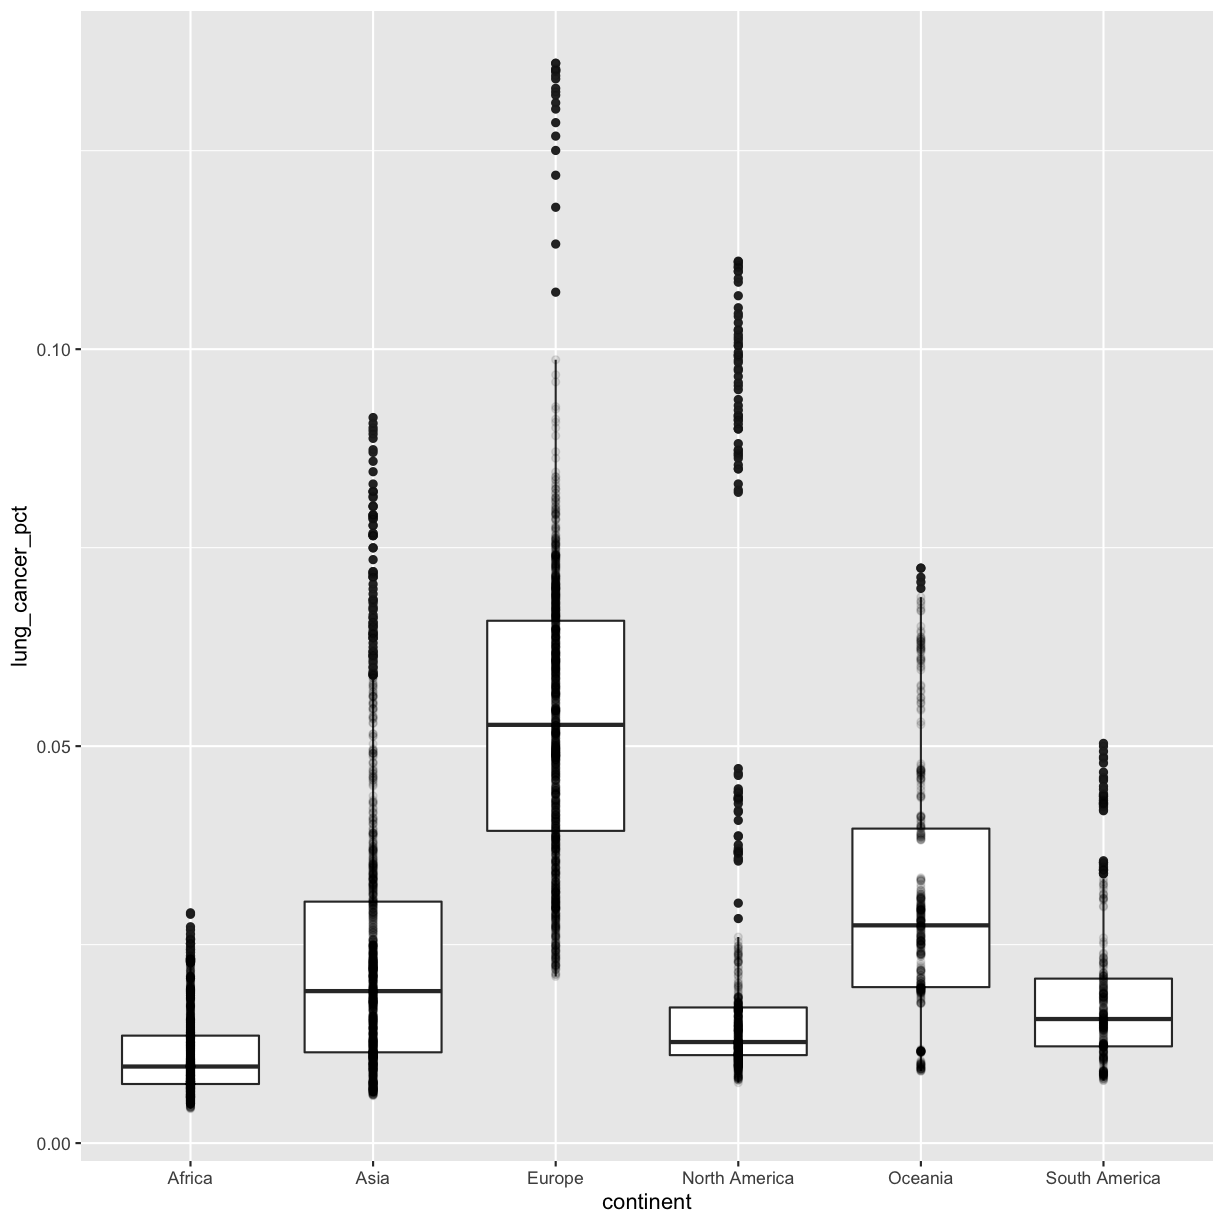
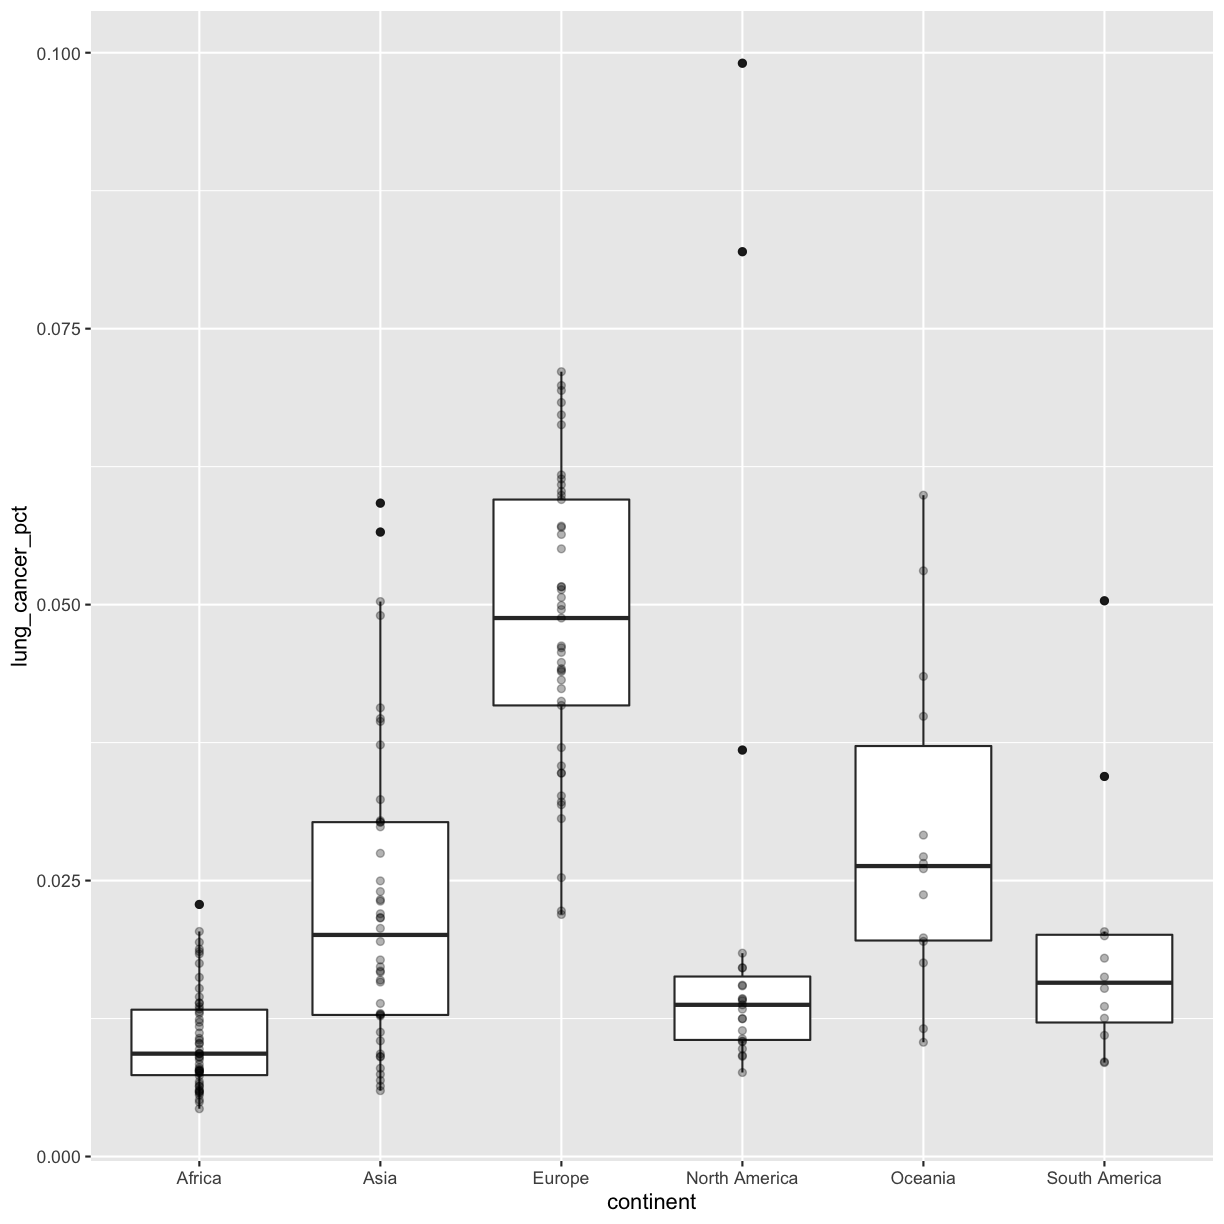
Fix minor bugs

diff --git a/_episodes/02-r-plotting.md b/_episodes/02-r-plotting.md
@@ -126,7 +126,7 @@ library(tidyverse)
 >
 {: .callout}
 
-Okay, now let's read in our data, smoking_cancer_1990.csv, which is in the data folder in our project directory. 
+Okay, now let's read in our data, "smoking_cancer_1990.csv", which is in the data folder in our project directory. 
 We're going to use the `read_csv()` function that we loaded in with the tidyverse, 
 and save it to `smoking_1990`, which will act as a placeholder for our data.
 This function takes a file path and returns a tibble, which is basically a table (that we sometimes call a data frame...).
@@ -352,7 +352,7 @@ ggplot(data = smoking_1990) +
 <img src="../fig/rmd-02-FirstPlotAddPoints-1.png" title="plot of chunk FirstPlotAddPoints" alt="plot of chunk FirstPlotAddPoints" width="612" style="display: block; margin: auto;" />
 
 Now we're really getting somewhere. It finally looks like a proper plot!  We can
-now see a trend in the data. It looks like countries with greater smoking rates tend to have higher lung cancer rates. Let's add a title to our plot to make that
+now see a trend in the data. It looks like countries with greater smoking rates tend to have higher lung cancer rates, though it's important to remember that we can't infer causality from this plot alone. Let's add a title to our plot to make that
 clearer. Again, we will use the `labs()` function, but this time we will use the
 `title =` argument.
 
@@ -394,7 +394,7 @@ ggplot(data = smoking_1990) +
 
 <img src="../fig/rmd-02-FirstPlotAddColor-1.png" title="plot of chunk FirstPlotAddColor" alt="plot of chunk FirstPlotAddColor" width="612" style="display: block; margin: auto;" />
 
-Here we can see that in 1990 the African countries tended to have much smoking and lung cancer rates than many other continents. Notice that when we add a mapping for
+Here we can see that in 1990 the African countries tended to have much lower smoking and lung cancer rates than many other continents. Notice that when we add a mapping for
 color, ggplot automatically provided a legend for us. It took care of assigning
 different colors to each of our unique values of the `continent` variable. (Note
 that when we mapped the x and y values, those drew the actual axis labels, so in
@@ -449,8 +449,6 @@ website](https://colorbrewer2.org/) for more info about choosing plot colors.
 > > 
 > > 
 > > ~~~
-> > #install.packages("ggsci")
-> > library(ggsci)
 > > ggplot(data = smoking_1990) +
 > >   aes(x = smoke_pct) +
 > >   labs(x = "Percent of people who smoke") +
@@ -459,7 +457,7 @@ website](https://colorbrewer2.org/) for more info about choosing plot colors.
 > >   geom_point() +
 > >   labs(title = "Are lung cancer rates associated with smoking rates?") +
 > >   aes(color = continent) +
-> >   scale_color_locuszoom()
+> >   scale_color_viridis_d(option = "turbo")
 > > ~~~
 > > {: .language-r}
 > > 
@@ -469,8 +467,8 @@ website](https://colorbrewer2.org/) for more info about choosing plot colors.
 {: .challenge}
 
 Since we have the data for the population of each country, we might be curious
-what effect population might have on smoking rates and lung cancer rates. Do you
-think larger countries will have a greater or lower lung cancer rates? Let's find
+about the relationship between population, smoking rates, and lung cancer rates. Do you
+think larger countries will have a greater or lower lung cancer rate? Let's find
 out by mapping the population of each country to the size of our points.
 
 > ## Changing point sizes
@@ -499,7 +497,7 @@ out by mapping the population of each country to the size of our points.
 > {: .solution}
 {: .challenge}
 
-There doesn't seem to be a very strong association with population size. We got another legend here for size,
+There doesn't seem to be a very strong association with population size. We also got another legend here for size,
 which is nice, but the values look a bit ugly in scientific notation. Let's
 divide all the values by 1,000,000 and label our legend "Population (in
 millions)"
@@ -629,8 +627,8 @@ ggsave(filename = "figures/cancer_v_smoke.png", plot = cancer_v_smoke, width=6, 
 {: .language-r}
 
 
-> ## Understanding common errors
-> Sometimes you accidentally type things wrong and get errors. We call these mis-types "bugs".
+> ## Understanding common bugs
+> Sometimes you accidentally type things wrong and get unexpected results or errors. We call these mis-types "bugs".
 > Let's go through some common ones. The most important things to remember are:
 > 1. The order of parentheses, quotes, commas, and plusses matters.
 > 1. Sometimes you accidentally forget a plus where you need one or include one where you don't.
@@ -663,13 +661,27 @@ ggsave(filename = "figures/cancer_v_smoke.png", plot = cancer_v_smoke, width=6, 
 >  geom_point() +
 >  scale_color_brewer(palette = "Set2") +
 >  labs(x = "Percent of people who smoke", y = "Percent of people with lung cancer", title = "Are lung cancer rates associated with smoking rates?", size = "Population (in millions)")
+> 
+> # Bug 4
+> ggplot(data = smoking_1990) +
+>  aes(x = smoke_pct, y = lung_cancer_pct color, = continent, size = pop/1000000) +
+>  geom_point() +
+>  scale_color_brewer(palette = "Set2") +
+>  labs(x = "Percent of people who smoke", y = "Percent of people with lung cancer", title = "Are lung cancer rates associated with smoking rates?" size = "Population (in millions)")
+> 
+> # Bug 5
+> ggplot(data = smoking_1990) +
+>  aes(x = smoke_pct, y = lung_cancer_pct color, = continent, size = pop/1000000) +
+>  geom_point() +
+>  scale_color_brewer(palette = "Set2") +
+>  labs(x = "Percent of people who smoke", y = "Percent of people with lung cancer", title = "Are lung cancer rates associated with smoking rates?", size = "Population (in millions)") +
 > ~~~
 > {: .language-r}
 > {: .source}
 > > ## Solution
-> > Bug 1: We generated a plot, but it doesn't look like what we expect. The bug is in our mapping of aesthetics: `aes(x = "smoke_pct", y = lung_cancer_pct, color = continent, size = pop/1000000)`. Because `"smoke_pct"` is in quotation marks, ggplot understands that as a single value, rather than an aesthetic mapped to the `smoke_pct` variable in the `smoking_1990` dataset. To correct this bug, remove the from `"smoke_pct"`.
+> > **Bug 1**: We generated a plot, but it doesn't look like what we expect. The bug is in our mapping of aesthetics: `aes(x = "smoke_pct", y = lung_cancer_pct, color = continent, size = pop/1000000)`. Because `"smoke_pct"` is in quotation marks, ggplot understands that as a single value, rather than an aesthetic mapped to the `smoke_pct` variable in the `smoking_1990` dataset. To correct this bug, remove the from `"smoke_pct"`.
 > >
-> > Bug 2: This code generates the following error: 
+> > **Bug 2**: This code generates the following error: 
 > > ```
 > > Error: unexpected ')' in:
 > > "      scale_color_brewer(palette = "Set2") +
@@ -678,12 +690,25 @@ ggsave(filename = "figures/cancer_v_smoke.png", plot = cancer_v_smoke, width=6, 
 > >
 > > Although it might be alarming to get this error, it's actually quite helpful! You can see that the error points out that we have an unexpected closed parentheses ")" in the last two lines of our code. Look closely, and you'll see that we accidentally put an extra ")" on the `labs()` layer in the last line of code.
 > >
-> > Bug 3: This code generates the following error:
+> > **Bug 3**: This code generates the following error:
 > > ```
 > > Error: geom_point requires the following missing aesthetics: y
 > > ```
 > >
 > > This error tells us that we are missing a y aesthetic, which is required for `geom_point()`. Oops! Make sure to add `y = lung_cancer_pct` back in!
+> >
+> > **Bug 4**: This code generates the following error:
+> > ```
+> > Error: unexpected symbol in:
+> > "      scale_color_brewer(palette = "Set2") +
+> >       labs(x = "Percent of people who smoke", y = "Percent of people with lung cancer", title = "Are lung cancer rates associated with smoking rates?" size"
+> > ```
+> > 
+> > This error message tells us that there was something unexpected in either the `scale_color_brewer()` function or the `labs()` funtion. These errors can be some of the hardest to figure out, because the message is not very specific. However, if you look closely, yu will see that we are missing a comma between `title = "Are lung cancer rates associated with smoking rates?"` and `size = "Population (in millions)"` inside the label function.
+> >
+> > **Bug 5**: When you run this code, it seems like nothing happens. Look at the symbol on the last line in your console. Instead of the `>` symbol we expect, you can see that there is a `+`. This means that R is expecting something else. But why?
+> > 
+> > Check the last line of your ggplot code. Oops! We left a `+` symbol at the very end. Before you can run anything else, you'll need to tell R that you don't actually have anything to add to the previous code. To do this, click on the last line in the console and then hit "Esc" on your keyboard. Now you are ready to run the correct code.
 > >
 > > In the code chunck below, you can see the code that results in an error-free plot.
 > >
@@ -774,9 +799,9 @@ Notice that this dataset has an additional column `year` compared to the smaller
 >  geom_point()
 > ~~~
 > {: .language-r}
-> 
-> <img src="../fig/rmd-02-PlotFullsmoking-1.png" title="plot of chunk PlotFullsmoking" alt="plot of chunk PlotFullsmoking" width="612" style="display: block; margin: auto;" />
->
+> > ## Solution
+> > <img src="../fig/rmd-02-PlotFullsmokingEval-1.png" title="plot of chunk PlotFullsmokingEval" alt="plot of chunk PlotFullsmokingEval" width="612" style="display: block; margin: auto;" />
+> {: .solution}
 {: .challenge}
 
 Hmm, the plot we created in the last exercise isn't very clear. We can see some patterns that may be attributable to countries with higher lung cancer rates, but it's tough to tell what's going on, since many of the points are overlapping. Since the dataset is more complex, the plotting options we used for the smaller dataset aren't as useful for interpreting these data. Luckily, we can add additional attributes to our plots that will make patterns more apparent. For example, we can generate a different type of plot - perhaps a line plot with one line per country, colored by continent - and assign attributes for variables where we might expect to see patterns.
@@ -816,7 +841,7 @@ Hmm. This doesn't look right. By setting the color value to `continent`, we got 
 Now, it's more straightforward to attribute patterns to individual countries within continents. Do you see any lines that might be outliers or interesting to look into? Are there parts of the plot that are still hard to see? Sometimes plots like this are called "spaghetti plots" because all the lines look like a bunch of wet noodles.
 
 > ## Bonus Exercise: More line plots
-> Now create your own line plot comparing population and lung cancer rates! Looking at your plot, can you guess which two countries have experienced massive change in population from 1952-2007?
+> Now create your own line plot comparing population and lung cancer rates! Looking at your plot, can you guess which two countries have experienced massive change in population from 1990-2019?
 >
 > > ## Solution
 > > 
@@ -828,7 +853,7 @@ Now, it's more straightforward to attribute patterns to individual countries wit
 > > {: .language-r}
 > > 
 > > <img src="../fig/rmd-02-smokingMoreLines-1.png" title="plot of chunk smokingMoreLines" alt="plot of chunk smokingMoreLines" width="612" style="display: block; margin: auto;" />
-> > (China and India are the two Asian countries that have experienced massive population growth from 1952-2007.)
+> > (China and India are the two Asian countries that have experienced massive population growth from 1990-2019.)
 > {: .solution}
 {: .challenge}
 
@@ -837,15 +862,15 @@ _[Back to top](#contents)_
 
 So far we've looked at two plot types (`geom_point` and `geom_line`) which work when both the x and y values are continuous. But sometimes one of your values may be discrete. 
 
-We've previously used the discrete values of the `continent` column to color in our points and lines. But now let's try moving that variable to the `x` axis. Let's say we are curious about comparing the distribution of the lung cancer rates for each of the different continents for the `smoking` data. We can do so using a box plot. Try this out yourself in the exercise below!
+We've previously used the discrete values of the `continent` column to color in our points and lines. But now let's try moving that variable to the `x` axis. To do this, we will return to the `smoking_1990` datset. Let's say we are curious about comparing the distribution of the lung cancer rates for each of the different continents for the `smoking_1990` data. We can do so using a box plot. Try this out yourself in the exercise below!
 
 > ## Box plots
-> Using the `smoking` data, use ggplot to create a box plot with continent on the x axis and lung cancer rates on the y axis. You can use the examples from earlier in the lesson as a template to remember how to pass ggplot data and map aesthetics and geometries onto the plot. If you're really stuck, feel free to use the internet as well!
+> Using the `smoking_1990` data, use ggplot to create a box plot with continent on the x axis and lung cancer rates on the y axis. You can use the examples from earlier in the lesson as a template to remember how to pass ggplot data and map aesthetics and geometries onto the plot. If you're really stuck, feel free to use the internet as well!
 >
 > > ## Solution
 > > 
 > > ~~~
-> > ggplot(data = smoking) +
+> > ggplot(data = smoking_1990) +
 > >  aes(x = continent, y = lung_cancer_pct) +
 > >  geom_boxplot()
 > > ~~~
@@ -863,7 +888,7 @@ This type of visualization makes it easy to compare the range and spread of valu
 > > ## Example solution
 > > 
 > > ~~~
-> > ggplot(data = smoking) +
+> > ggplot(data = smoking_1990) +
 > >   aes(x = continent, y = lung_cancer_pct) +
 > >   geom_violin()
 > > ~~~
@@ -880,7 +905,7 @@ In `ggplot2` you can store a plot in an object name and then add layers to the b
 
 
 ~~~
-base_plot <- ggplot(data = smoking) +
+base_plot <- ggplot(data = smoking_1990) +
   aes(x = continent, y = lung_cancer_pct)
 base_plot
 ~~~
@@ -888,7 +913,7 @@ base_plot
 
 <img src="../fig/rmd-02-base_plot-1.png" title="plot of chunk base_plot" alt="plot of chunk base_plot" width="612" style="display: block; margin: auto;" />
 
-So far we've only been adding one geom to each plot, but each plot object can actually contain multiple layers and each layer has it's own geom. Let's start with a basic boxplot:
+Now that we've set up our base plot with x and y axes, let's layer on a geometry. We will start with a basic boxplot:
 
 
 ~~~
@@ -985,7 +1010,7 @@ That's better! R knows many color names. You can see the full list if you run `c
 ## Layers
 _[Back to top](#contents)_
 
-Now let's add a layer of points on top of our boxplot that will show us the "raw" data:
+So far we've only been adding one geom to each plot, but each plot object can actually contain multiple layers and each layer has it's own geom. Now let's add a layer of points on top of our boxplot that will show us the "raw" data:
 
 
 ~~~
@@ -1003,23 +1028,23 @@ We've drawn the points but most of them stack up on top of each other. One way t
 ~~~
 base_plot +
   geom_boxplot() +
-  geom_point(alpha = 0.1)
+  geom_point(alpha = 0.3)
 ~~~
 {: .language-r}
 
 <img src="../fig/rmd-02-BoxPointsAlpha-1.png" title="plot of chunk BoxPointsAlpha" alt="plot of chunk BoxPointsAlpha" width="612" style="display: block; margin: auto;" />
 
-We have so many observations/data points, that even making the points transparent doesn't really help us see them! Another option is to "jitter" the points. This adds some random variation to the position of the points so you can see them better. We can do this using `geom_jitter()`.
+We have many observations/data points, so even making the points transparent doesn't really help us see them! Another option is to "jitter" the points. This adds some random variation to the position of the points so you can see them better. We can do this using `geom_jitter()`.
 
 **WARNING!!!** `geom_jitter()` changes the position of points and should therefore only be used for **discrete** variables that don't have numerical values!!!
 
-Since we are plotting a discrete value on the x axis, and a continuous value on the y axis, we will need to tell `geom_jitter()` not to change the y value positions. We can do this by setting `height = 0` inside the geom:
+Since we are plotting a discrete value on the x axis, and a continuous value on the y axis, we will need to tell `geom_jitter()` not to change the y value positions. We can do this by setting `height = 0` inside the geom. We will also modify the degree to which points are jittered on the x axis by setting the `width` argument. Feel free to play around with `width` to get a plot that you like. Remember, we can **only** do this because the x axis is discrete!
 
 
 ~~~
 base_plot +
   geom_boxplot() +
-  geom_jitter(height = 0, alpha = 0.1)
+  geom_jitter(height = 0, width = 0.05, alpha = 0.3)
 ~~~
 {: .language-r}
 
@@ -1031,7 +1056,7 @@ Now let's try switching the order of `geom_boxplot` and `geom_jitter`. What happ
 
 ~~~
 base_plot +
-  geom_jitter(height = 0, alpha = 0.1) +
+  geom_jitter(height = 0, width = 0.05, alpha = 0.1) +
   geom_boxplot()
 ~~~
 {: .language-r}
@@ -1047,7 +1072,7 @@ Going back to having the points on top, let's color the points by continent. If 
 base_plot +
   aes(color = continent) +
   geom_boxplot() +
-  geom_jitter(height = 0, alpha = 0.1)
+  geom_jitter(height = 0, width = 0.05, alpha = 0.3)
 ~~~
 {: .language-r}
 
@@ -1059,7 +1084,7 @@ So how do we make it so that just the points are colored but not the boxplots? E
 ~~~
 base_plot +
   geom_boxplot() +
-  geom_jitter(aes(color = continent), height = 0, alpha = 0.1)
+  geom_jitter(aes(color = continent), height = 0, width = 0.05, alpha = 0.3)
 ~~~
 {: .language-r}
 
@@ -1071,9 +1096,9 @@ Nice! Both `geom_boxplot` and `geom_jitter` will inherit the default values of `
 > We can also map our default aesthetics by passing the values to the `ggplot()` function call as is sometimes more common:
 > 
 > ~~~
-> ggplot(data = smoking, mapping = aes(x = continent, y = lung_cancer_pct)) +
+> ggplot(data = smoking_1990, mapping = aes(x = continent, y = lung_cancer_pct)) +
 >   geom_boxplot() +
->   geom_jitter(height = 0, alpha = 0.1)
+>   geom_jitter(height = 0, width = 0.05, alpha = 0.3)
 > ~~~
 > {: .language-r}
 > 
@@ -1092,7 +1117,7 @@ Let's start with a [histogram](https://www.thoughtco.com/what-is-a-histogram-312
 
 
 ~~~
-ggplot(data = smoking) +
+ggplot(data = smoking_1990) +
   aes(x = lung_cancer_pct) +
   geom_histogram()
 ~~~
@@ -1112,7 +1137,7 @@ When you ran the code to make the histogram, you should not only see the plot in
 
 
 ~~~
-ggplot(data = smoking) +
+ggplot(data = smoking_1990) +
   aes(x = lung_cancer_pct) +
   geom_histogram(bins=20)
 ~~~
@@ -1128,7 +1153,7 @@ Try different values like 5 or 50 to see how the plot changes.
 > > ## Example solution
 > > 
 > > ~~~
-> > ggplot(data = smoking) +
+> > ggplot(data = smoking_1990) +
 > >   aes(x = lung_cancer_pct) +
 > >   geom_density()
 > > ~~~
@@ -1148,7 +1173,7 @@ What if we want to plot a univariate discrete variable, like continent? For this
 > > ## Example solution
 > > 
 > > ~~~
-> > ggplot(data = smoking) +
+> > ggplot(data = smoking_1990) +
 > >   aes(x = continent) +
 > >   geom_bar()
 > > ~~~
@@ -1165,7 +1190,7 @@ Our plots are looking pretty nice, but what's with that grey background? While y
 
 
 ~~~
-ggplot(data = smoking) +
+ggplot(data = smoking_1990) +
   aes(x = lung_cancer_pct) +
   geom_histogram(bins = 20) +
   theme_bw()
@@ -1182,7 +1207,7 @@ Try out a few other themes, to see which you like: `theme_classic()`, `theme_lin
 > > ## Solution
 > > 
 > > ~~~
-> > ggplot(data = smoking) +
+> > ggplot(data = smoking_1990) +
 > >   aes(x = lung_cancer_pct) +
 > >   geom_histogram(bins = 20) + 
 > >   theme(axis.text.x = element_text(angle = 90, vjust = 0.5, hjust=1))
@@ -1224,7 +1249,7 @@ Now, it's easier to see the patterns within each continent.
 
 Note that `facet_wrap` requires an extra helper function called `vars()` in order to pass in the column names. It's a lot like the `aes()` function, but it doesn't require an aesthetic name. We can see in this output that we get a separate box with a label for each continent so that only the points for that continent are in that box.
 
-The other faceting function ggplot provides is `facet_grid()`. The main difference is that `facet_grid()` will make sure all of your smaller boxes share a common axis. In this example, we will put the boxes into columns side-by-side so that their y axes all line up.
+The other faceting function ggplot provides is `facet_grid()`. The main difference is that `facet_grid()` will make sure all of your smaller boxes share a common axis. In this example, we will put the boxes into columns side-by-side so that their y axes all line up. We can do this using the `cols` argument inside `facet_grid`.
 
 
 ~~~
@@ -1272,9 +1297,14 @@ Questions to answer:
 
 1. In 1-2 sentences, describe the information covered in your dataset.
 2. How large is your dataset? How many rows? How many columns?
-3. Write down 3 questions you could answer with your data set.
-4. How can you use visuals to explore those questions? Draw 3 plots out on paper. What will these plots show you?
-5. Is your data in a format that can easily be read into R? How can you improve the formatting of the contents of the file? 
+3. Write down 3 specific questions you could answer with your data set.
+4. Think through 3 data visualizations that can answer the questions you have. Specifically, for each one:
+    a) Write down your question or goal for the plot.
+    b) Write down the variables needed to answer your question.
+    c) Choose an aesthetic for each variable.
+    d) Choose a geometry.
+    e) Draw a draft plot with pen and paper to determine whether you think these choices will work.
+
 
 # Glossary of terms
 _[Back to top](#contents)_
